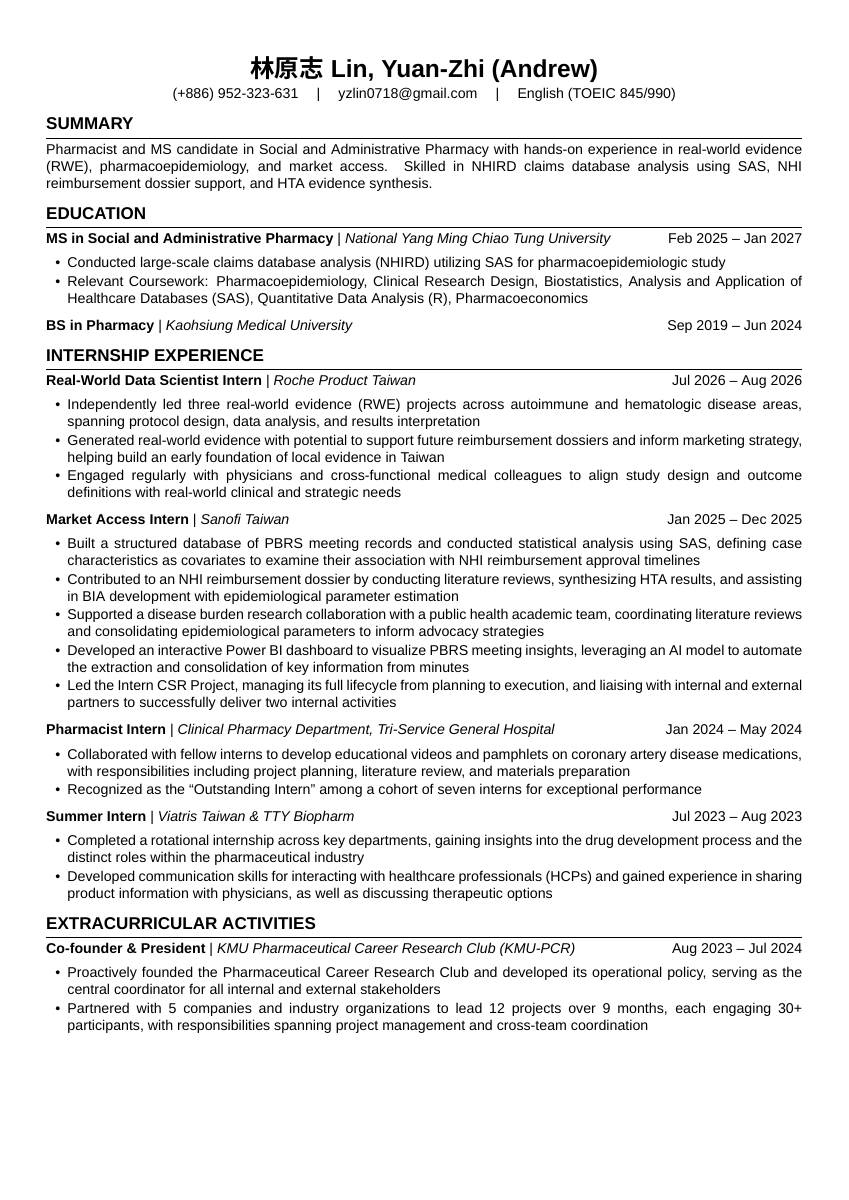
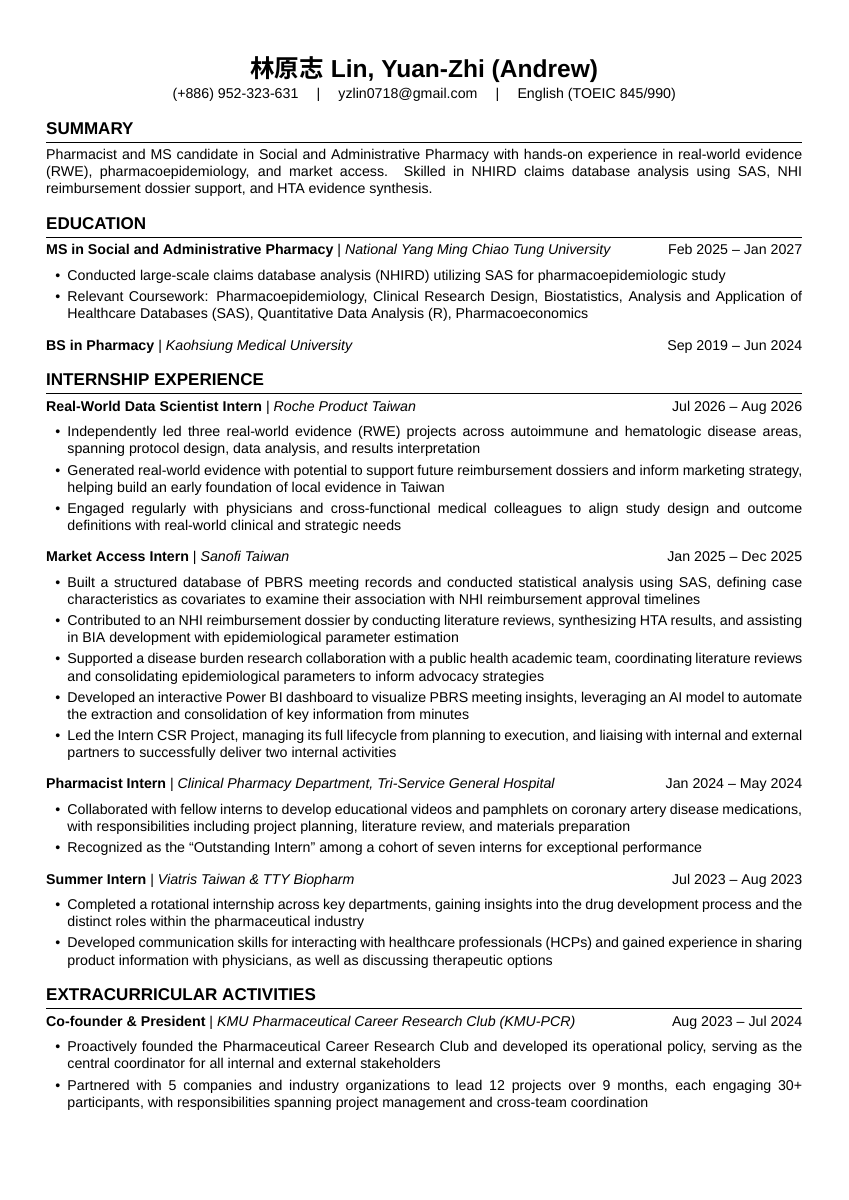
Resume: loosen bullet and section spacing to fill the page
Claude-Session: https://claude.ai/code/session_01DdJ9zx194rRDv1YbxAcLDs

Changed region(s): [[0.0306, 0.0925, 0.9494, 0.925]]

diff --git a/outputs/andrew_lin_resume.tex b/outputs/andrew_lin_resume.tex
@@ -16,7 +16,7 @@
 
 % Section styling -- simple bold with horizontal rule
 \titleformat{\section}{\large\bfseries\uppercase}{}{0em}{}[\vspace{0.1em}\titlerule]
-\titlespacing*{\section}{0pt}{0.8em}{0.4em}
+\titlespacing*{\section}{0pt}{1.1em}{0.5em}
 
 % No hyphenation (keeps keywords intact for ATS parsing)
 \hyphenpenalty=10000
@@ -28,7 +28,7 @@
     \noindent\textbf{#1} \textbar{} \textit{#3} \hfill #2%
 }
 
-\setlist[itemize]{leftmargin=1.5em, itemsep=0.1em, parsep=0pt, topsep=0.2em}
+\setlist[itemize]{leftmargin=1.5em, itemsep=0.3em, parsep=0pt, topsep=0.3em}
 
 \begin{document}
 
@@ -53,7 +53,7 @@ Pharmacist and MS candidate in Social and Administrative Pharmacy with hands-on 
     \item Relevant Coursework: Pharmacoepidemiology, Clinical Research Design, Biostatistics, Analysis and Application of Healthcare Databases (SAS), Quantitative Data Analysis (R), Pharmacoeconomics
 \end{itemize}
 
-\vspace{0.2em}
+\vspace{0.4em}
 
 \entry{BS in Pharmacy}{Sep 2019 -- Jun 2024}{Kaohsiung Medical University}
 
@@ -67,7 +67,7 @@ Pharmacist and MS candidate in Social and Administrative Pharmacy with hands-on 
     \item Engaged regularly with physicians and cross-functional medical colleagues to align study design and outcome definitions with real-world clinical and strategic needs
 \end{itemize}
 
-\vspace{0.2em}
+\vspace{0.4em}
 
 \entry{Market Access Intern}{Jan 2025 -- Dec 2025}{Sanofi Taiwan}
 \begin{itemize}
@@ -78,7 +78,7 @@ Pharmacist and MS candidate in Social and Administrative Pharmacy with hands-on 
     \item Led the Intern CSR Project, managing its full lifecycle from planning to execution, and liaising with internal and external partners to successfully deliver two internal activities
 \end{itemize}
 
-\vspace{0.2em}
+\vspace{0.4em}
 
 \entry{Pharmacist Intern}{Jan 2024 -- May 2024}{Clinical Pharmacy Department, Tri-Service General Hospital}
 \begin{itemize}
@@ -86,7 +86,7 @@ Pharmacist and MS candidate in Social and Administrative Pharmacy with hands-on 
     \item Recognized as the ``Outstanding Intern'' among a cohort of seven interns for exceptional performance
 \end{itemize}
 
-\vspace{0.2em}
+\vspace{0.4em}
 
 \entry{Summer Intern}{Jul 2023 -- Aug 2023}{Viatris Taiwan \& TTY Biopharm}
 \begin{itemize}
